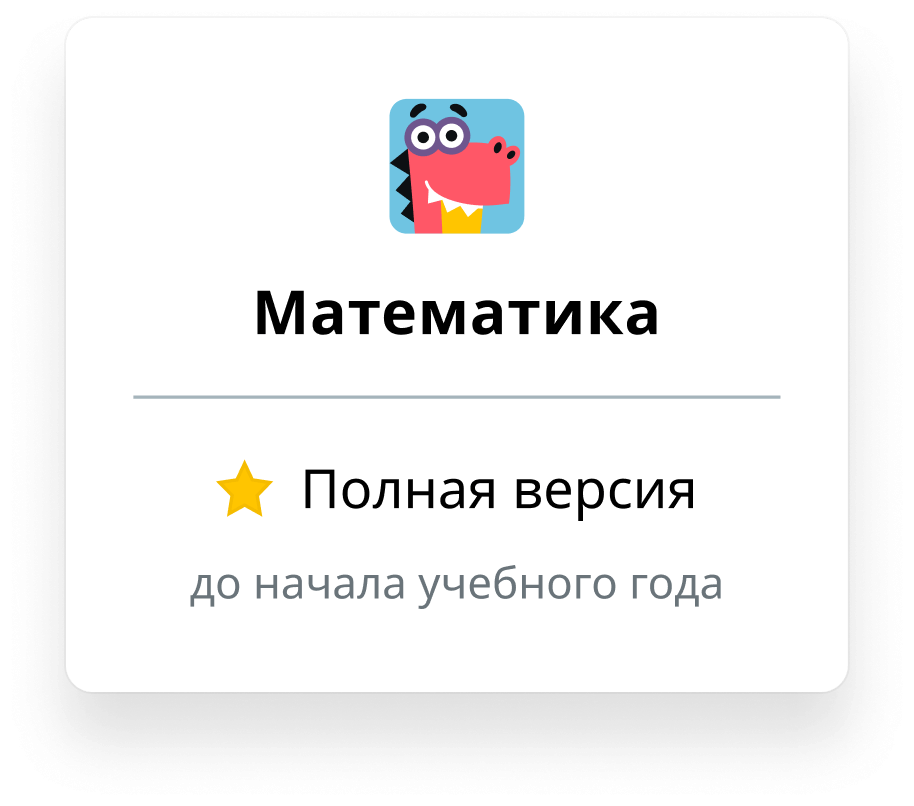
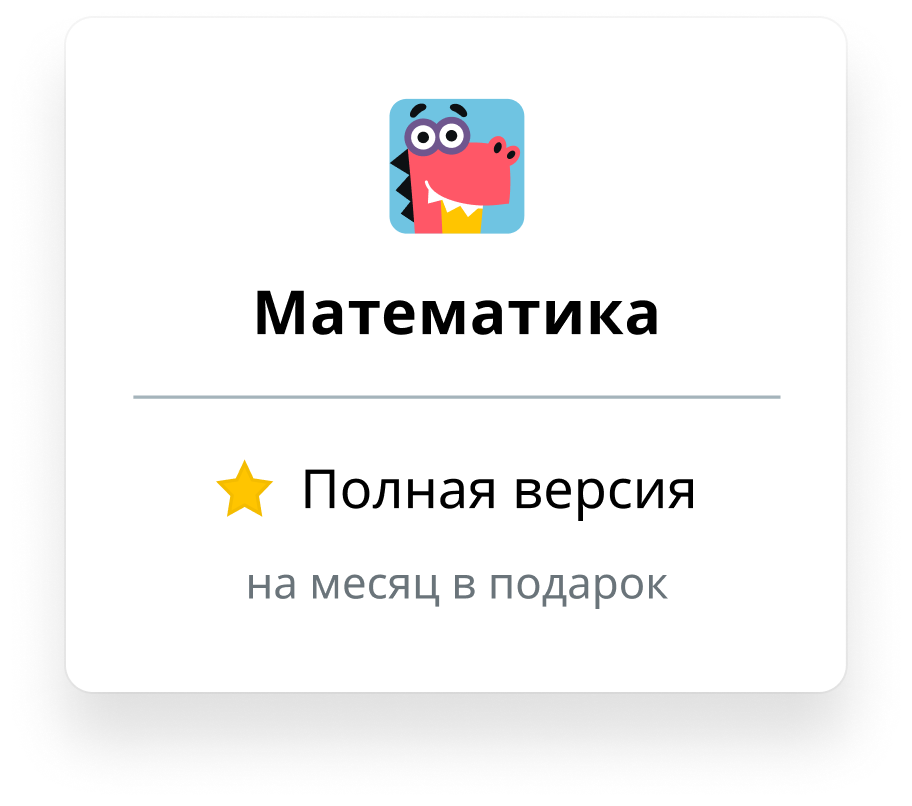
Премиум на месяц, убрали скидку

diff --git a/index.html b/index.html
@@ -687,7 +687,7 @@
               <h1 class='tn-atom'>Онлайн-наставник по&nbsp;математике</h1>
             </div>
             <div class='t396__elem tn-elem tn-elem__1148100221553597615787' data-elem-id='1553597615787' data-elem-type='text' data-field-top-value="281" data-field-top-res-960-value="254" data-field-top-res-640-value="294" data-field-top-res-480-value="218" data-field-top-res-320-value="328" data-field-left-value="20" data-field-left-res-960-value="10" data-field-left-res-640-value="10" data-field-left-res-480-value="10" data-field-left-res-320-value="10" data-field-width-value="560" data-field-width-res-960-value="540" data-field-width-res-640-value="460" data-field-width-res-480-value="300" data-field-width-res-320-value="300" data-field-axisy-value="top" data-field-axisx-value="left" data-field-container-value="grid" data-field-topunits-value="" data-field-leftunits-value="" data-field-heightunits-value="" data-field-widthunits-value="">
-              <div class='tn-atom' field='tn_text_1553597615787'>Он&nbsp;общается с&nbsp;ребёнком по&nbsp;видеосвязи, мотивирует учиться и&nbsp;готовит к&nbsp;новому учебному году. До&nbsp;15 августа скидка 15%</div>
+              <div class='tn-atom' field='tn_text_1553597615787'>Он&nbsp;общается с&nbsp;ребёнком по&nbsp;видеосвязи, мотивирует учиться и&nbsp;готовит к&nbsp;новому учебному году.</div>
             </div>
             <div class='t396__elem tn-elem tn-elem__1148100221553597875300' data-elem-id='1553597875300' data-elem-type='button' data-field-top-value="449" data-field-top-res-960-value="408" data-field-top-res-640-value="464" data-field-top-res-480-value="372" data-field-top-res-320-value="481" data-field-left-value="20" data-field-left-res-960-value="10" data-field-left-res-640-value="10" data-field-left-res-480-value="10" data-field-left-res-320-value="10" data-field-height-value="60" data-field-height-res-960-value="55" data-field-height-res-640-value="55" data-field-height-res-480-value="48" data-field-height-res-320-value="48" data-field-width-value="280" data-field-width-res-960-value="300" data-field-width-res-640-value="220" data-field-width-res-480-value="180" data-field-width-res-320-value="300" data-field-axisy-value="top" data-field-axisx-value="left" data-field-container-value="grid" data-field-topunits-value="" data-field-leftunits-value="" data-field-heightunits-value="" data-field-widthunits-value="">
               <a class='tn-atom' href="#rec116467310">Нанять наставника</a>
@@ -1134,7 +1134,7 @@
                   </div>
                 </div>
                 <div class="t491__descr t-descr t-descr_xs" style="font-size:18px;" field="li_descr__1476978617855">
-                  Полный доступ к математике на Учи.ру на лето в подарок. Больше дополнительного материала – больше интереса к предмету.<br/>
+                  Полный доступ к математике на Учи.ру на месяц в подарок. Больше дополнительного материала – больше интереса к предмету.<br/>
                 </div>
               </div>
             </div>
@@ -2657,18 +2657,18 @@
             </div>
             <div class='t396__elem tn-elem tn-elem__1164673101552564691205' data-elem-id='1552564691205' data-elem-type='text' data-field-top-value="374" data-field-top-res-960-value="374" data-field-top-res-640-value="917" data-field-top-res-320-value="994" data-field-left-value="810" data-field-left-res-960-value="600" data-field-left-res-640-value="120" data-field-left-res-480-value="70" data-field-left-res-320-value="30" data-field-width-value="340" data-field-width-res-960-value="320" data-field-width-res-640-value="400" data-field-width-res-480-value="340" data-field-width-res-320-value="260" data-field-axisy-value="top" data-field-axisx-value="left" data-field-container-value="grid" data-field-topunits-value="" data-field-leftunits-value="" data-field-heightunits-value="" data-field-widthunits-value="">
               <div class='tn-atom' field='tn_text_1552564691205'>
-                До&nbsp;15 августа действует <strong>скидка 15%</strong>
+
               </div>
             </div>
             <div class='t396__elem tn-elem tn-elem__1164673101552565347454' data-elem-id='1552565347454' data-elem-type='button' data-field-top-value="305" data-field-top-res-960-value="305" data-field-top-res-640-value="848" data-field-top-res-320-value="925" data-field-left-value="811" data-field-left-res-960-value="600" data-field-left-res-640-value="120" data-field-left-res-480-value="70" data-field-left-res-320-value="30" data-field-height-value="48" data-field-height-res-960-value="48" data-field-height-res-640-value="48" data-field-height-res-480-value="48" data-field-height-res-320-value="48" data-field-width-value="340" data-field-width-res-960-value="320" data-field-width-res-640-value="400" data-field-width-res-480-value="340" data-field-width-res-320-value="260" data-field-axisy-value="top" data-field-axisx-value="left" data-field-container-value="grid" data-field-topunits-value="" data-field-leftunits-value="" data-field-heightunits-value="" data-field-widthunits-value="">
-              <a class='tn-atom' href="#order:Онлайн-наставник по Математике =2490:::image=images/tild6234-6436-4437-a131-336463636531__shutterstock_1273437.jpg">Оплатить картой</a>
+              <a class='tn-atom' href="#order:Онлайн-наставник по Математике =2890:::image=images/tild6234-6436-4437-a131-336463636531__shutterstock_1273437.jpg">Оплатить картой</a>
             </div>
             <div class='t396__elem tn-elem tn-elem__1164673101552566511443' data-elem-id='1552566511443' data-elem-type='text' data-field-top-value="220" data-field-top-res-960-value="220" data-field-top-res-640-value="763" data-field-top-res-320-value="840" data-field-left-value="810" data-field-left-res-960-value="600" data-field-left-res-640-value="120" data-field-left-res-480-value="70" data-field-left-res-320-value="30" data-field-width-value="120" data-field-axisy-value="top" data-field-axisx-value="left" data-field-container-value="grid" data-field-topunits-value="" data-field-leftunits-value="" data-field-heightunits-value="" data-field-widthunits-value="">
-              <div class='tn-atom' field='tn_text_1552566511443'>2 490 ₽</div>
+              <div class='tn-atom' field='tn_text_1552566511443'>2 890 ₽</div>
             </div>
             <div class='t396__elem tn-elem tn-elem__1164673101552566553618' data-elem-id='1552566553618' data-elem-type='text' data-field-top-value="220" data-field-top-res-960-value="220" data-field-top-res-640-value="763" data-field-top-res-320-value="840" data-field-left-value="940" data-field-left-res-960-value="727" data-field-left-res-640-value="243" data-field-left-res-480-value="192" data-field-left-res-320-value="152" data-field-width-value="120" data-field-axisy-value="top" data-field-axisx-value="left" data-field-container-value="grid" data-field-topunits-value="" data-field-leftunits-value="" data-field-heightunits-value="" data-field-widthunits-value="">
               <div class='tn-atom' field='tn_text_1552566553618'>
-                <del>2 930 ₽</del>
+                <del><!--2 930 ₽--></del>
               </div>
             </div>
             <div class='t396__elem tn-elem tn-elem__1164673101552987827305' data-elem-id='1552987827305' data-elem-type='text' data-field-top-value="416" data-field-top-res-960-value="417" data-field-top-res-640-value="959" data-field-top-res-320-value="1056" data-field-left-value="810" data-field-left-res-960-value="600" data-field-left-res-640-value="120" data-field-left-res-480-value="70" data-field-left-res-320-value="30" data-field-width-value="340" data-field-width-res-960-value="320" data-field-width-res-640-value="400" data-field-width-res-480-value="340" data-field-width-res-320-value="260" data-field-axisy-value="top" data-field-axisx-value="left" data-field-container-value="grid" data-field-topunits-value="" data-field-leftunits-value="" data-field-heightunits-value="" data-field-widthunits-value="">
@@ -2709,7 +2709,7 @@
               <div class='tn-atom'></div>
             </div>
             <div class='t396__elem tn-elem tn-elem__1164673101563282456008' data-elem-id='1563282456008' data-elem-type='text' data-field-top-value="476" data-field-top-res-960-value="476" data-field-top-res-640-value="476" data-field-top-res-480-value="476" data-field-top-res-320-value="551" data-field-left-value="80" data-field-left-res-960-value="70" data-field-left-res-640-value="70" data-field-left-res-480-value="70" data-field-left-res-320-value="50" data-field-width-value="460" data-field-width-res-960-value="390" data-field-width-res-640-value="480" data-field-width-res-480-value="400" data-field-width-res-320-value="270" data-field-axisy-value="top" data-field-axisx-value="left" data-field-container-value="grid" data-field-topunits-value="" data-field-leftunits-value="" data-field-heightunits-value="" data-field-widthunits-value="">
-              <div class='tn-atom' field='tn_text_1563282456008'>до&nbsp;начала учебного года</div>
+              <div class='tn-atom' field='tn_text_1563282456008'>на месяц</div>
             </div>
             <div class='t396__elem tn-elem tn-elem__1164673101563282456014' data-elem-id='1563282456014' data-elem-type='image' data-field-top-value="444" data-field-top-res-960-value="444" data-field-top-res-320-value="495" data-field-left-value="20" data-field-left-res-960-value="10" data-field-left-res-320-value="10" data-field-width-value="30" data-field-axisy-value="top" data-field-axisx-value="left" data-field-container-value="grid" data-field-topunits-value="" data-field-leftunits-value="" data-field-heightunits-value="" data-field-widthunits-value="">
               <div class='tn-atom'>
